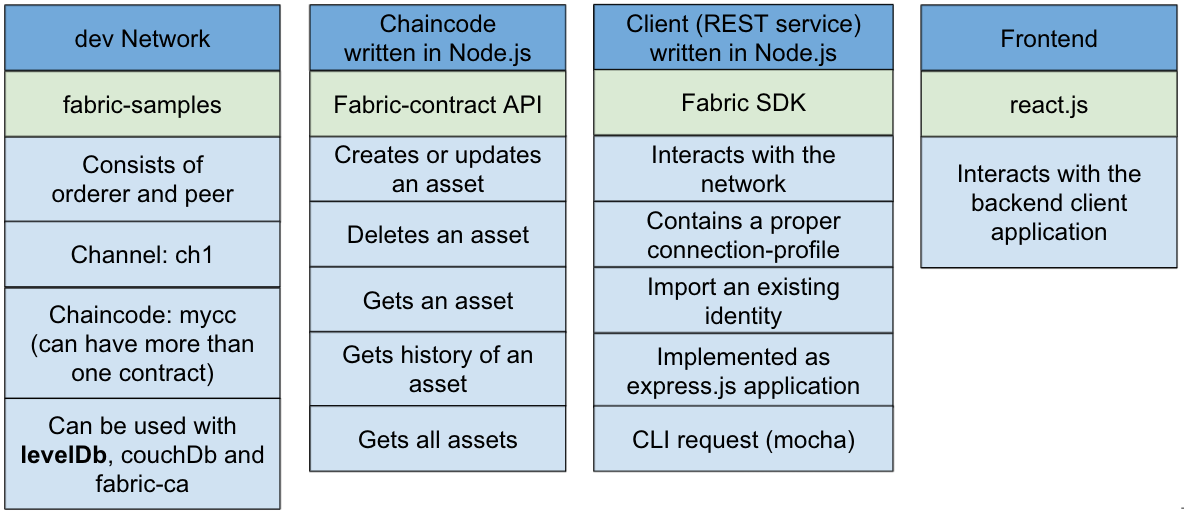
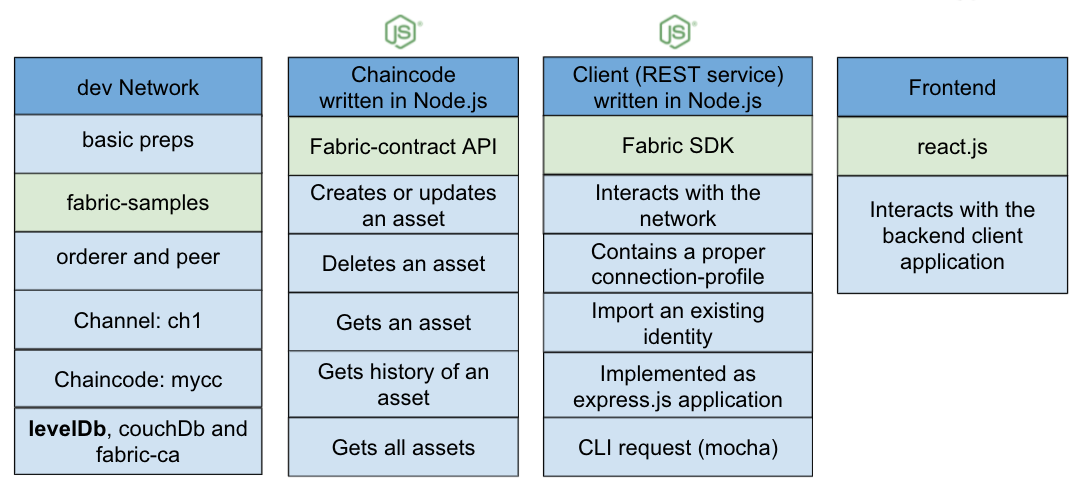
fix a typo and change an image

diff --git a/network/readme.md b/network/readme.md
@@ -68,7 +68,7 @@ peer chaincode query -o 127.0.0.1:7050 -C ch1 -n mycc -c '{"Args":["starter:getA
 peer chaincode invoke -o 127.0.0.1:7050 -C ch1 -n mycc -c '{"Args":["starter:delete","a1"]}'
 ```
 
->Note: If you move on to part 3, please don't stop the network.
+>Note: When you're completing part 3 of this guide, please do not stop the network.
 
 ## Stopping the Development Network
 Please note if you stop the network, the network will remove all blockchain related data and crypto-material. You will receive a clean system for the next start.
